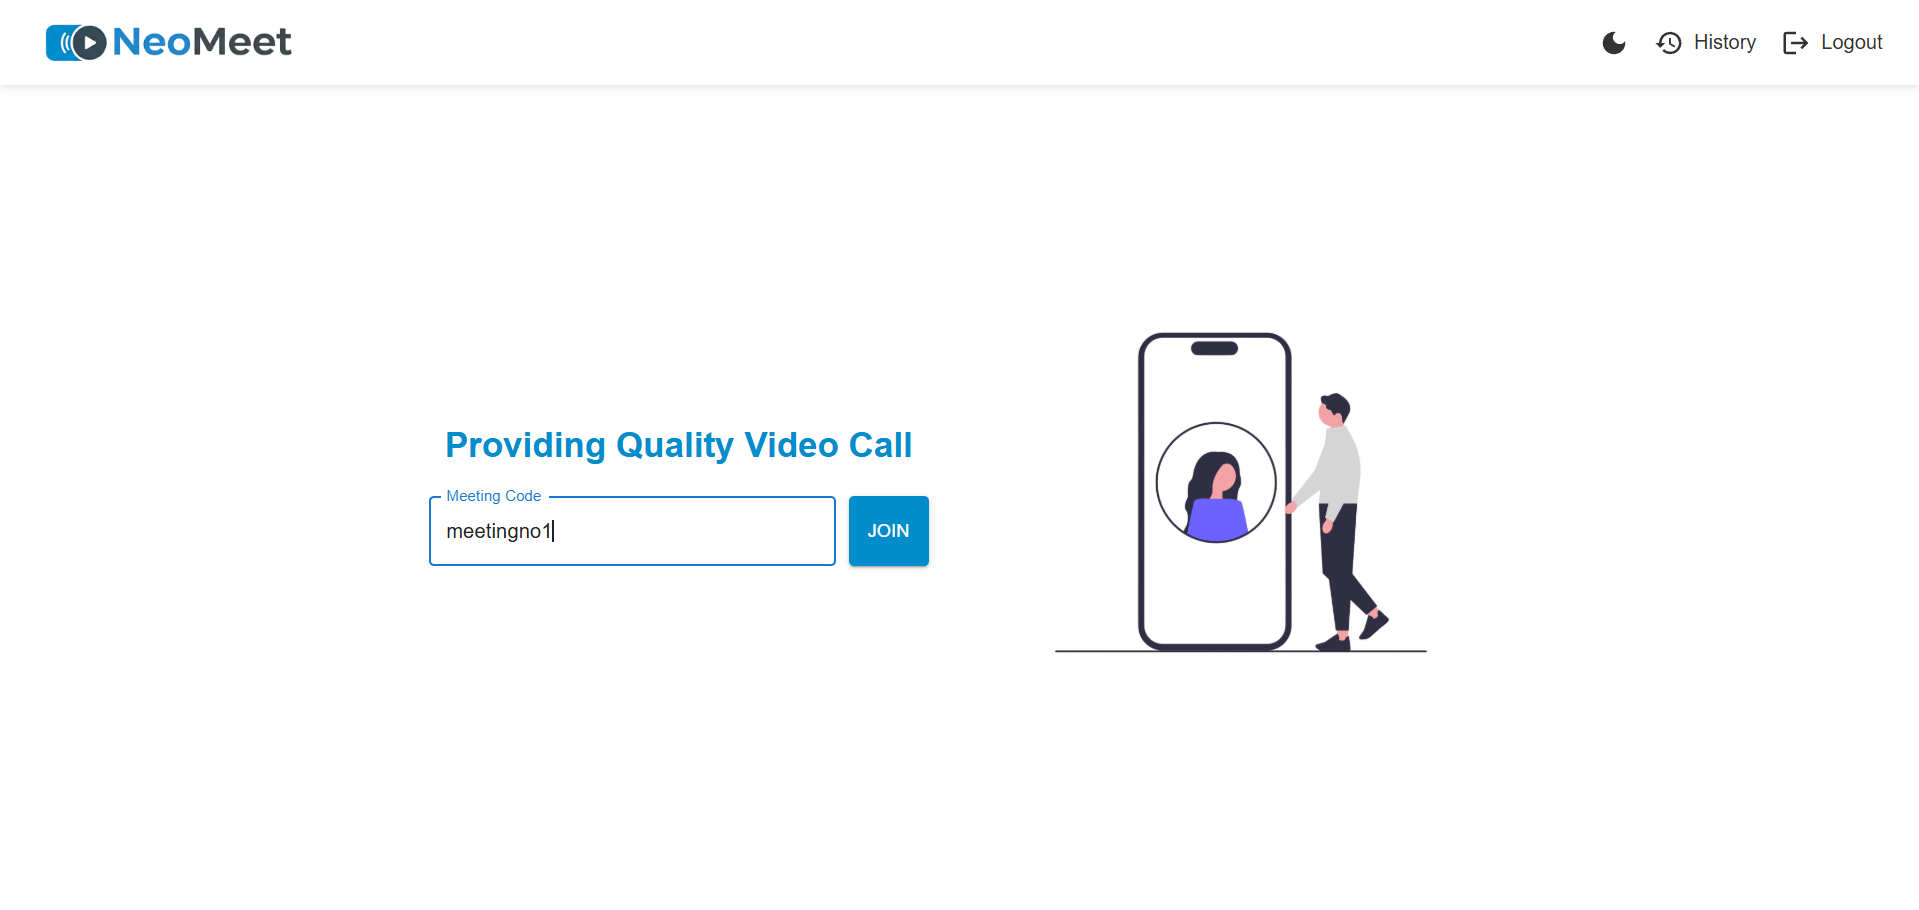
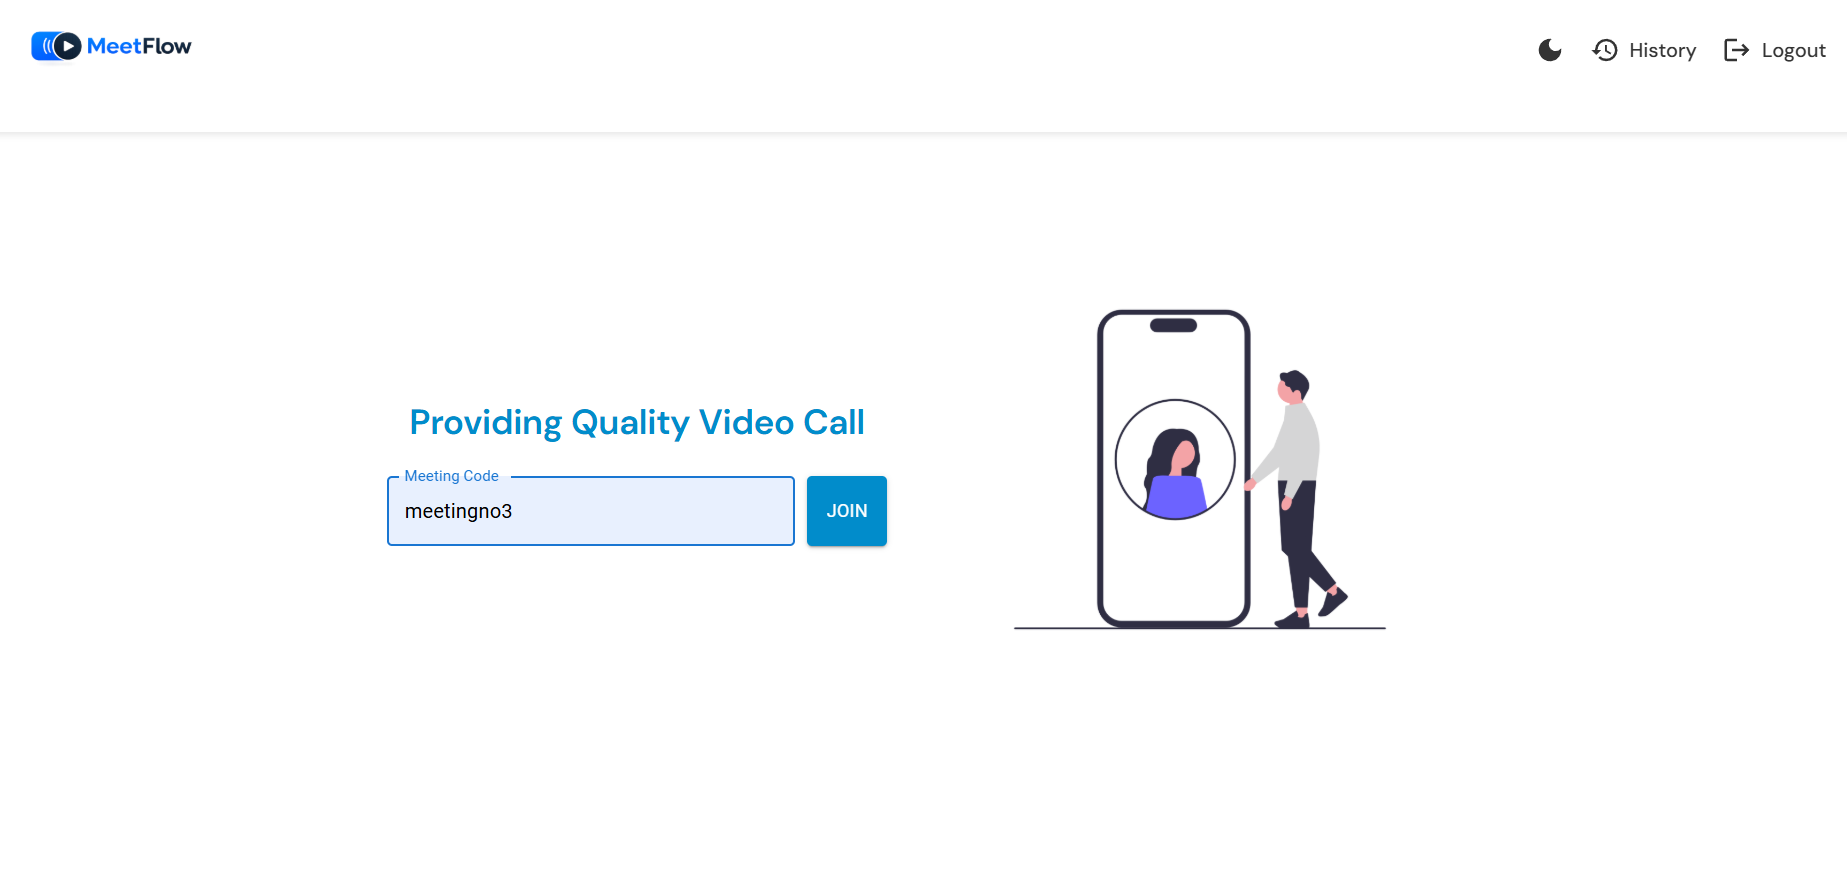
feat: implement authentication and home page UI with responsive design and theme support

diff --git a/frontend/src/pages/authentication.jsx b/frontend/src/pages/authentication.jsx
@@ -69,6 +69,31 @@ export default function Authentication() {
     <ThemeProvider theme={theme}>
       <CssBaseline />
 
+      {/* Top Navbar with Logo */}
+      <Box
+        sx={{
+          position: "fixed",
+          top: 0,
+          left: 0,
+          right: 0,
+          zIndex: 9999,
+          display: "flex",
+          alignItems: "center",
+          px: "40px",
+          py: "6px",
+          backgroundColor: darkMode ? "rgba(10,10,10,0.9)" : "rgba(255,255,255,0.9)",
+          backdropFilter: "blur(12px)",
+          boxShadow: "0 2px 15px rgba(0,0,0,0.1)",
+        }}
+      >
+        <img
+          src="/erasebg-transformed (1).png"
+          alt="MeetFlow Logo"
+          style={{ height: "90px", width: "auto", cursor: "pointer" }}
+          onClick={() => window.location.href = "/"}
+        />
+      </Box>
+
       {/* Container: responsive flex (column on xs, row on md+) */}
       <Box
         component="main"
@@ -79,6 +104,7 @@ export default function Authentication() {
           flexDirection: { xs: "column", md: "row" },
           overflow: "hidden",
           backgroundColor: darkMode ? '#0a0a0a' : '#f5f5f5',
+          pt: "102px",
         }}
       >
         {/* Left panel */}

diff --git a/frontend/src/pages/home.jsx b/frontend/src/pages/home.jsx
@@ -47,7 +47,7 @@ function HomeComponent() {
           <img
             src="/erasebg-transformed (1).png"
             alt="Logo"
-            style={{ height: "48px", cursor: "pointer" }}
+            style={{ height: "110px", cursor: "pointer" }}
             onClick={() => navigate("/")}
           />
         </div>